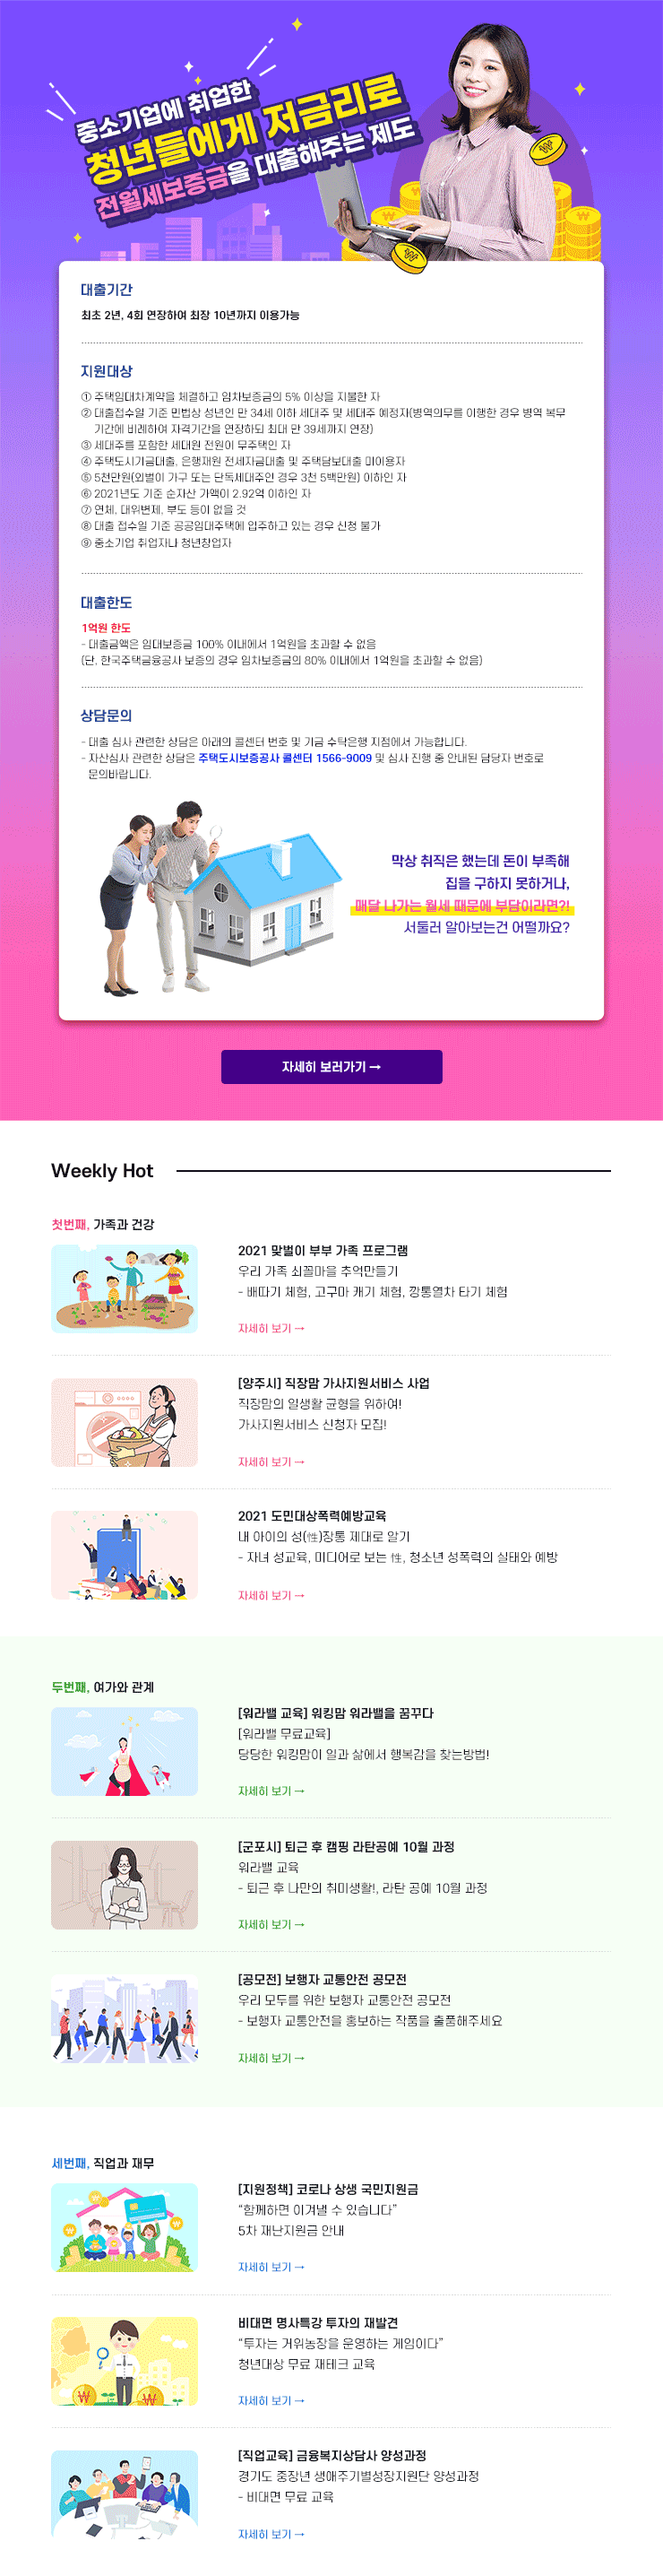
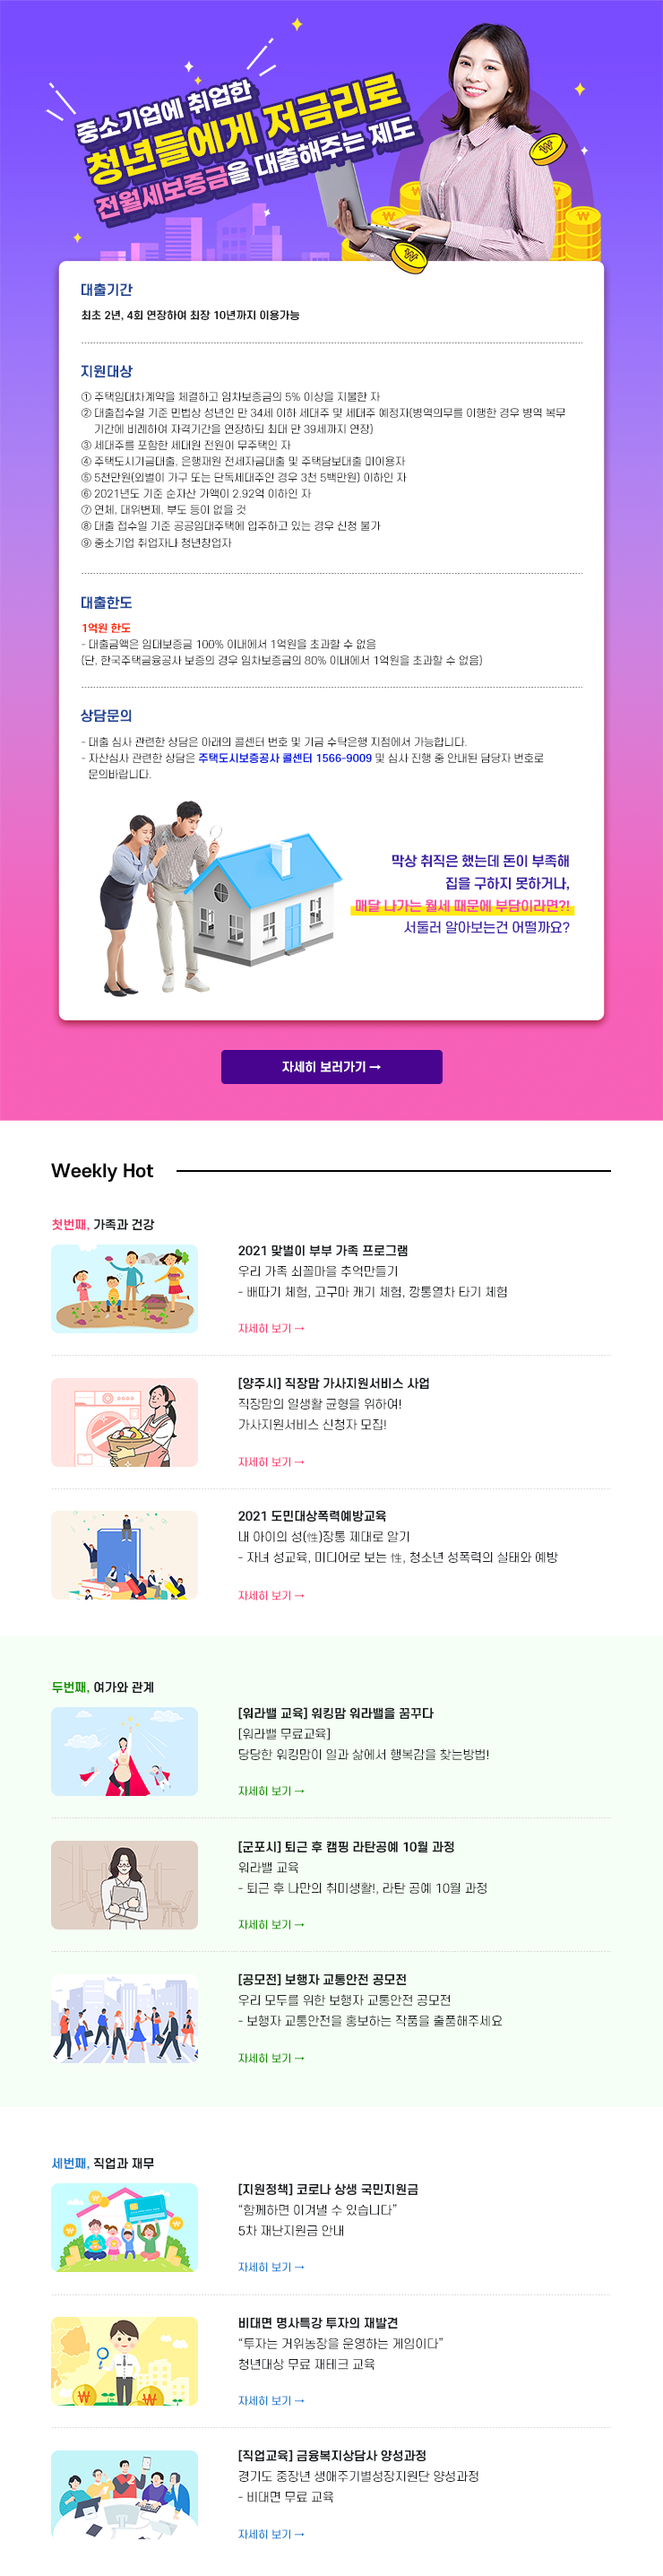
웹진 29호

diff --git a/webzine/29.html b/webzine/29.html
@@ -3,8 +3,9 @@
    <head>
 	<meta http-equiv="content-type" content="text/html charset=
     utf-8" />
-	<title>[28호]함께하면 이겨낼 수 있습니다
-        코로나 상생 국민지원금(5차 재난지원금) 자세히 알기!</title>
+	<title>[29호]정부에서 도와드립니다!
+		나만의 보금자리 만들기! 전월세보증금대출지원!
+	</title>
 	<style>
 		/* 웹진일 경우만 출력 		.share{display:inline-block!important;} 		.footer{display:none;} 		*/
 	</style>
@@ -23,17 +24,15 @@
 									<td colspan="3" style="height: 43px"></td>
 								</tr>
 								<tr>
-									<td colspan="3" style="font-size: 14px; font-family: 나눔고딕, nanumgothic, 맑은고딕, malgun gothic, 돋움, dotum, helvetica, apple sd gothic neo, sans-serif; vertical-align: top; color: rgba(0,0,0,.5); line-height: 1.4; text-align: center">경기도 워라밸 링크 웹진, 2021년 28호</td>
+									<td colspan="3" style="font-size: 14px; font-family: 나눔고딕, nanumgothic, 맑은고딕, malgun gothic, 돋움, dotum, helvetica, apple sd gothic neo, sans-serif; vertical-align: top; color: rgba(0,0,0,.5); line-height: 1.4; text-align: center">경기도 워라밸 링크 웹진, 2021년 29호</td>
 								</tr>
 								<tr>
 									<td colspan="3" style="height: 10px"></td>
 								</tr>
 								<tr>
 									<td colspan="3" style="font-family: 나눔고딕, nanumgothic, 맑은고딕, malgun gothic, 돋움, dotum, helvetica, apple sd gothic neo, sans-serif; vertical-align: top; text-align: center;">
-										<p style="font-size: 23px; line-height: 1.4;color:#06b96b;margin-bottom: 0;">함께하면 이겨낼 수 있습니다</strong></p>
-										<p style="font-size: 30px;font-weight: bold; line-height: 1.4;margin-top: 5px;margin-bottom: 0;color: #333"><span style="color:#7524b5">코로나 상생 국민지원금(5차 재난지원금)</span>
-                                            자세히 알기!
-                                        </p>
+										<p style="font-size: 23px; line-height: 1.4;margin-bottom: 0;color: #5f269f">정부에서 도와드립니다!</p>
+										<p style="font-size: 27px;font-weight: bold; line-height: 1.4;margin-top: 5px;margin-bottom: 0;color: #40307e"><span style="color: #f949a7">나만의 보금자리 만들기!</span>전월세보증금대출지원!</p>
 									</td>
 								</tr>
 								<tr>
@@ -64,20 +63,19 @@
 						<table style="width:740px;text-align:left;margin:0px auto;background-color:#fff;-webkit-text-size-adjust:100%" cellspacing="0" cellpadding="0">
 							<tbody>
 								<tr>
-									<img src="https://13b.kgoon.pw/images/img_wz28.png" usemap="#image-map">
-
-                                    <map name="image-map">
-                                        <area target="_blank" alt="자세히보기" title="자세히보기" href="https://13b.gg.go.kr/content/9994" coords="248,1360,494,1398" shape="rect">
-                                        <area target="_blank" alt="출산 전후  휴가급여 지금" title="출산 전후  휴가급여 지금" href="https://13b.gg.go.kr/content/9989" coords="65,1596,637,1693" shape="rect">
-                                        <area target="_blank" alt="[남양주시] 아이돌봄 서비스  한시적 무료 이용" title="[남양주시] 아이돌봄 서비스  한시적 무료 이용" href="https://13b.gg.go.kr/content/9825" coords="57,1742,638,1841" shape="rect">
-                                        <area target="_blank" alt="[안양시] 가사스트레스  해소지원사업" title="[안양시] 가사스트레스  해소지원사업" href="https://13b.gg.go.kr/content/9523" coords="58,1894,638,1992" shape="rect">
-                                        <area target="_blank" alt="[동두천시]사진은 감동이다 무료 워라밸 교육" title="[동두천시]사진은 감동이다 무료 워라밸 교육" href="https://13b.gg.go.kr/content/9991" coords="58,2111,638,2212" shape="rect">
-                                        <area target="_blank" alt="[군포시]그림책 큐레이션 무료 특강" title="[군포시]그림책 큐레이션 무료 특강" href="https://13b.gg.go.kr/content/9963" coords="58,2260,639,2361" shape="rect">
-                                        <area target="_blank" alt="[광명시] 여성비전센터 개강아카데미특강" title="[광명시] 여성비전센터 개강아카데미특강" href="https://13b.gg.go.kr/content/9972" coords="59,2410,639,2508" shape="rect">
-                                        <area target="_blank" alt="[경기도 지원정책] 경기도 청년 면접수당 2차 모집" title="[경기도 지원정책] 경기도 청년 면접수당 2차 모집" href="https://13b.gg.go.kr/content/9814" coords="54,2643,636,2742" shape="rect">
-                                        <area target="_blank" alt="[경기도 기업지원정책] 기업홍보 콘텐츠 제작지원" title="[경기도 기업지원정책] 기업홍보 콘텐츠 제작지원" href="https://13b.gg.go.kr/content/9141" coords="59,2792,640,2892" shape="rect">
-                                        <area target="_blank" alt="2021 경기 극저신용대출 하반기 대상 모집" title="2021 경기 극저신용대출 하반기 대상 모집" href="https://13b.gg.go.kr/content/9435" coords="62,2936,639,3040" shape="rect">
-                                    </map>
+									<img src="https://13b.kgoon.pw/images/img_wz29.png" usemap="#image-map">
+									<map name="image-map">
+										<area target="_blank" alt="자세히보기" title="자세히보기" href="https://13b.gg.go.kr/content/10156" coords="247,1171,493,1210" shape="rect">
+										<area target="_blank" alt="2021 맞벌이 부부 가족 프로그램" title="2021 맞벌이 부부 가족 프로그램" href="https://13b.gg.go.kr/content/10143" coords="60,1389,681,1487" shape="rect">
+										<area target="_blank" alt="[양주시] 직장맘 가사지원서비스 사업" title="[양주시] 직장맘 가사지원서비스 사업" href="https://13b.gg.go.kr/content/10141" coords="58,1536,682,1635" shape="rect">
+										<area target="_blank" alt="2021 도민대상폭력예방교육" title="2021 도민대상폭력예방교육" href="https://13b.gg.go.kr/content/10129" coords="56,1684,682,1788" shape="rect">
+										<area target="_blank" alt="[워라밸 교육] 워킹맘 워라밸을 꿈꾸다" title="[워라밸 교육] 워킹맘 워라밸을 꿈꾸다" href="https://13b.gg.go.kr/content/10147" coords="56,1902,665,2005" shape="rect">
+										<area target="_blank" alt="[군포시] 퇴근 후 캠핑 라탄공예 10월 과정" title="[군포시] 퇴근 후 캠핑 라탄공예 10월 과정" href="https://13b.gg.go.kr/content/10137" coords="57,2053,676,2153" shape="rect">
+										<area target="_blank" alt="[공모전] 보행자 교통안전 공모전" title="[공모전] 보행자 교통안전 공모전" href="https://13b.gg.go.kr/content/10159" coords="59,2201,679,2303" shape="rect">
+										<area target="_blank" alt="[지원정책] 코로나 상생 국민지원금" title="[지원정책] 코로나 상생 국민지원금" href="https://13b.gg.go.kr/content/9994" coords="57,2434,695,2534" shape="rect">
+										<area target="_blank" alt="비대면 명사특강 투자의 재발견" title="비대면 명사특강 투자의 재발견" href="https://13b.gg.go.kr/content/10144" coords="57,2583,696,2683" shape="rect">
+										<area target="_blank" alt="[직업교육] 금융복지상담사 양성과정" title="[직업교육] 금융복지상담사 양성과정" href="https://13b.gg.go.kr/content/10121" coords="55,2731,702,2832" shape="rect">
+									</map>
 								</tr>
 								<tr>
 									<td style="height: 40px"></td>

diff --git a/index.html b/index.html
@@ -263,6 +263,12 @@
 	<tr class="webzine">
 		<td></td>
 		<td>웹진</td>
+		<td><a href="/webzine/29.html" class="preview" target="_blank">[29호]정부에서 도와드립니다!	나만의 보금자리 만들기! 전월세보증금대출지원!
+</a></td>
+	</tr>
+	<tr class="webzine">
+		<td></td>
+		<td>웹진</td>
 		<td><a href="/webzine/tn_wz.html" class="preview" target="_blank">탐나는 기업 웹진
 </a></td>
 	</tr>
